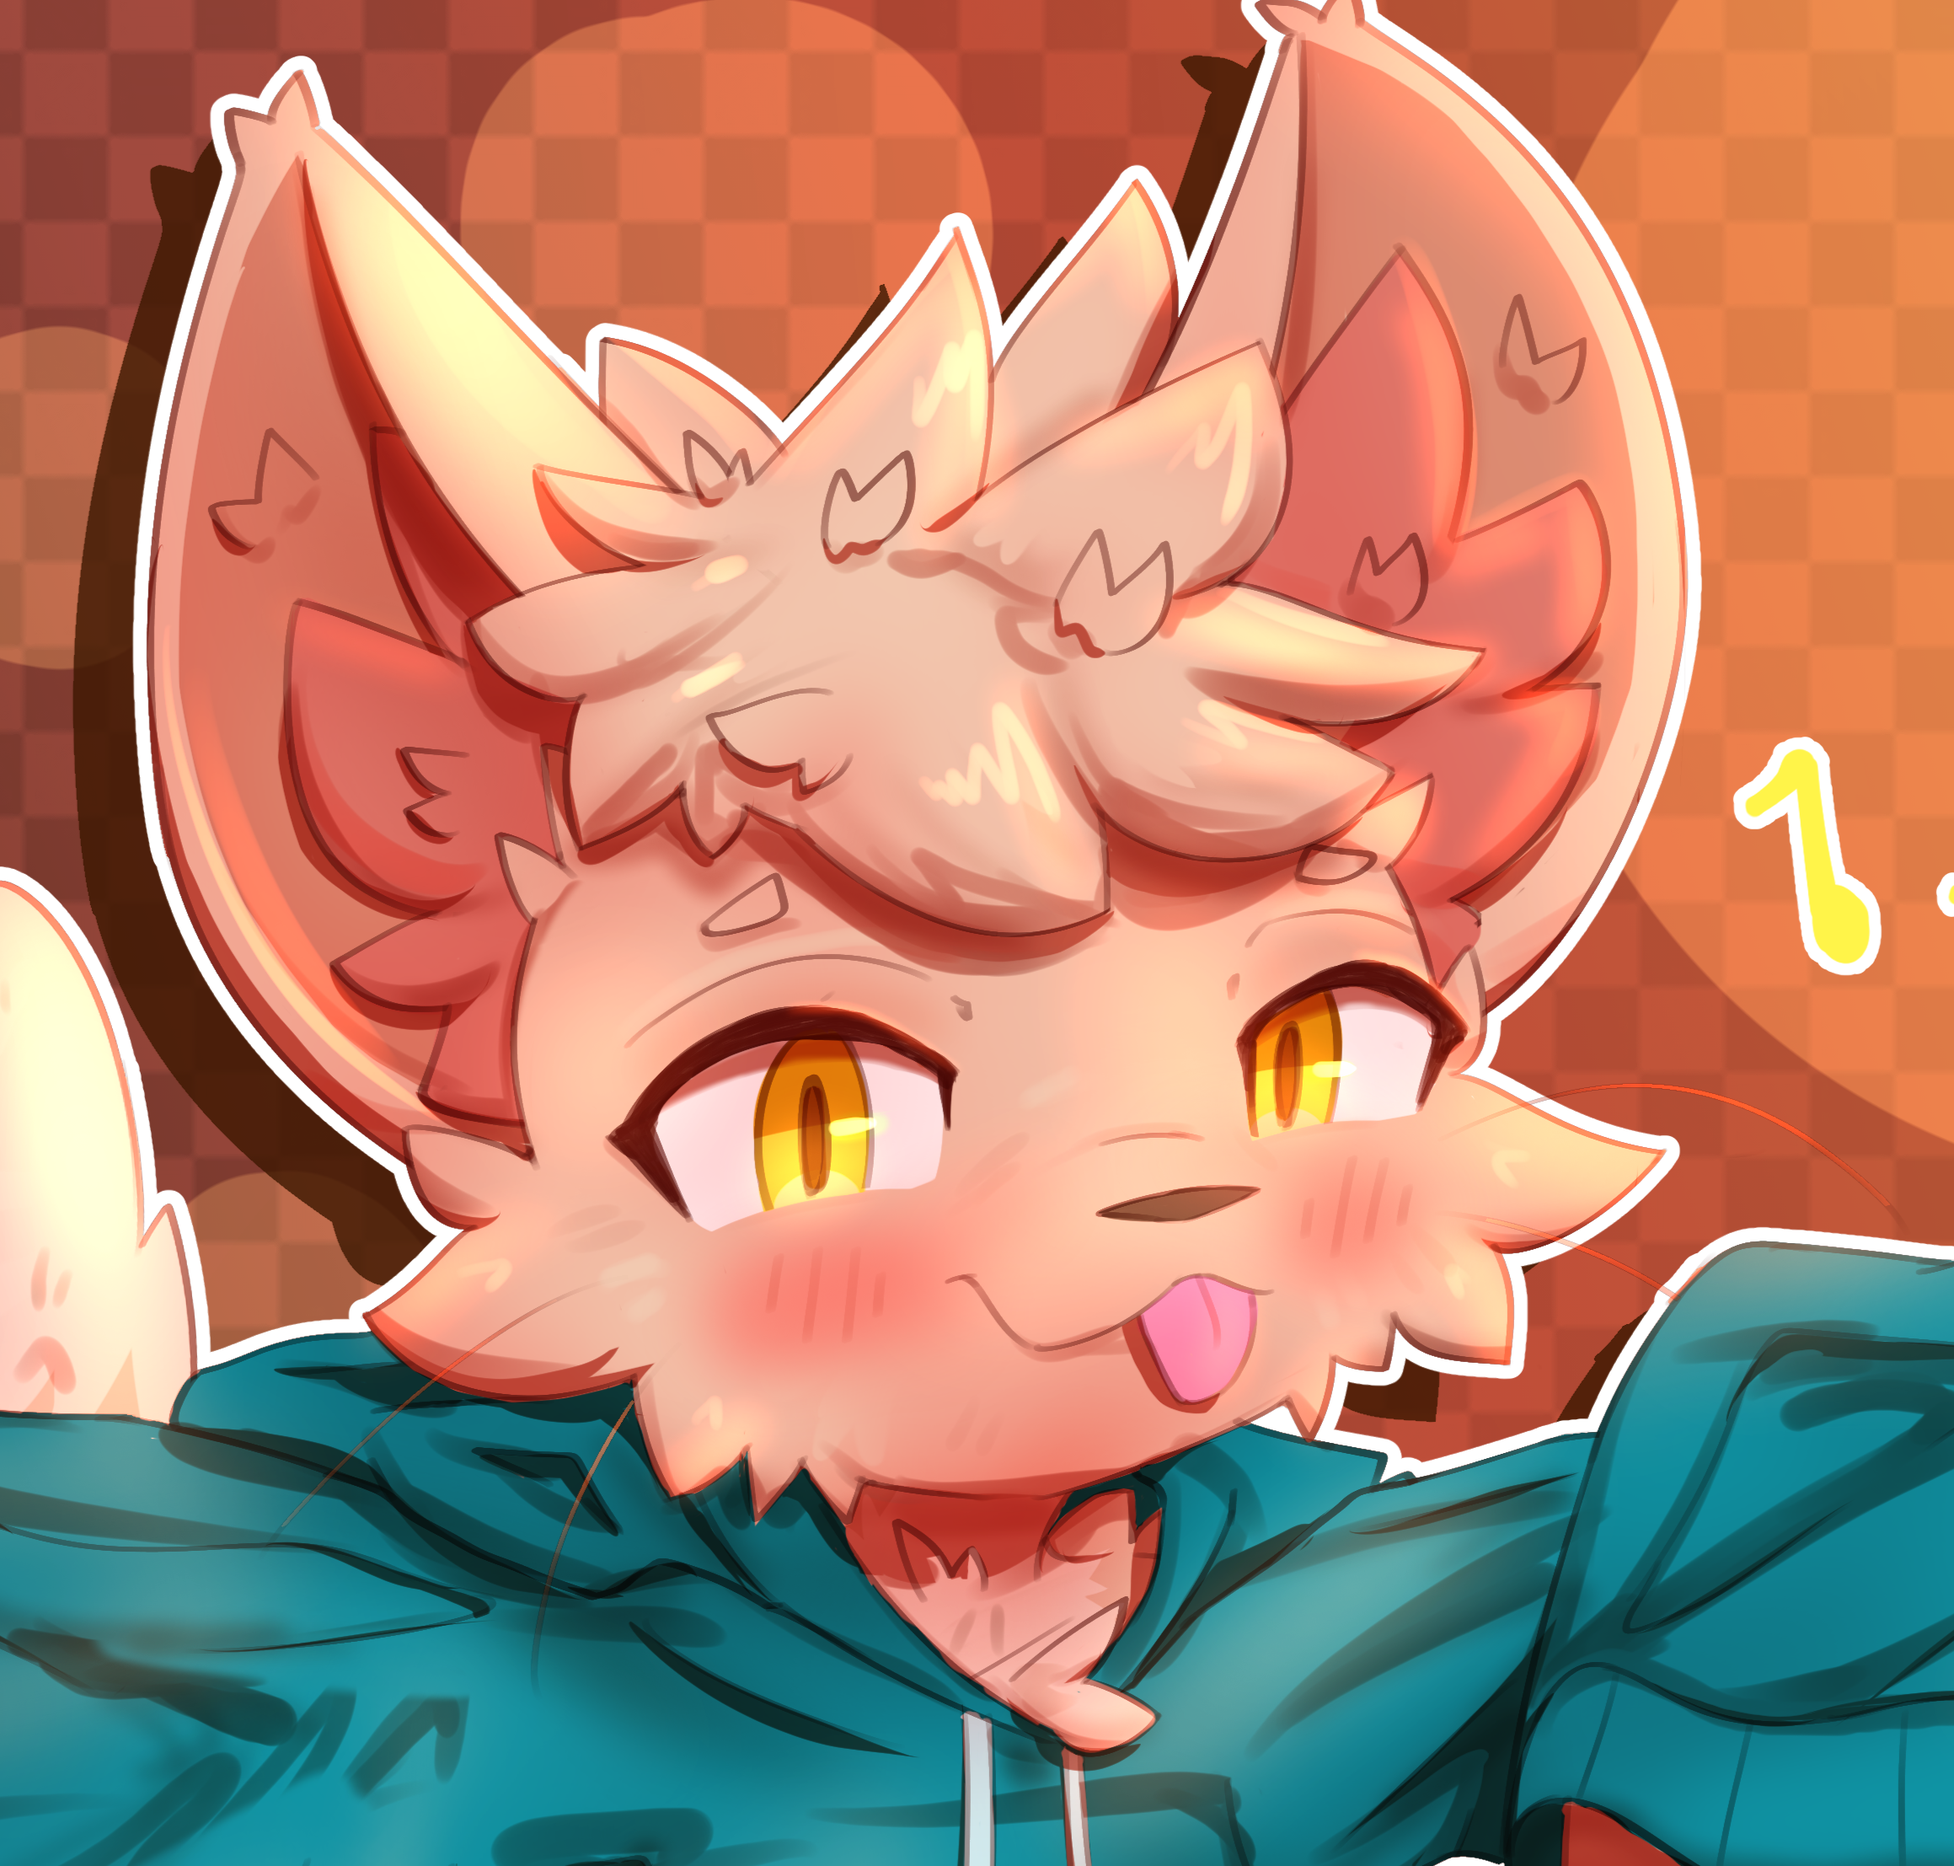
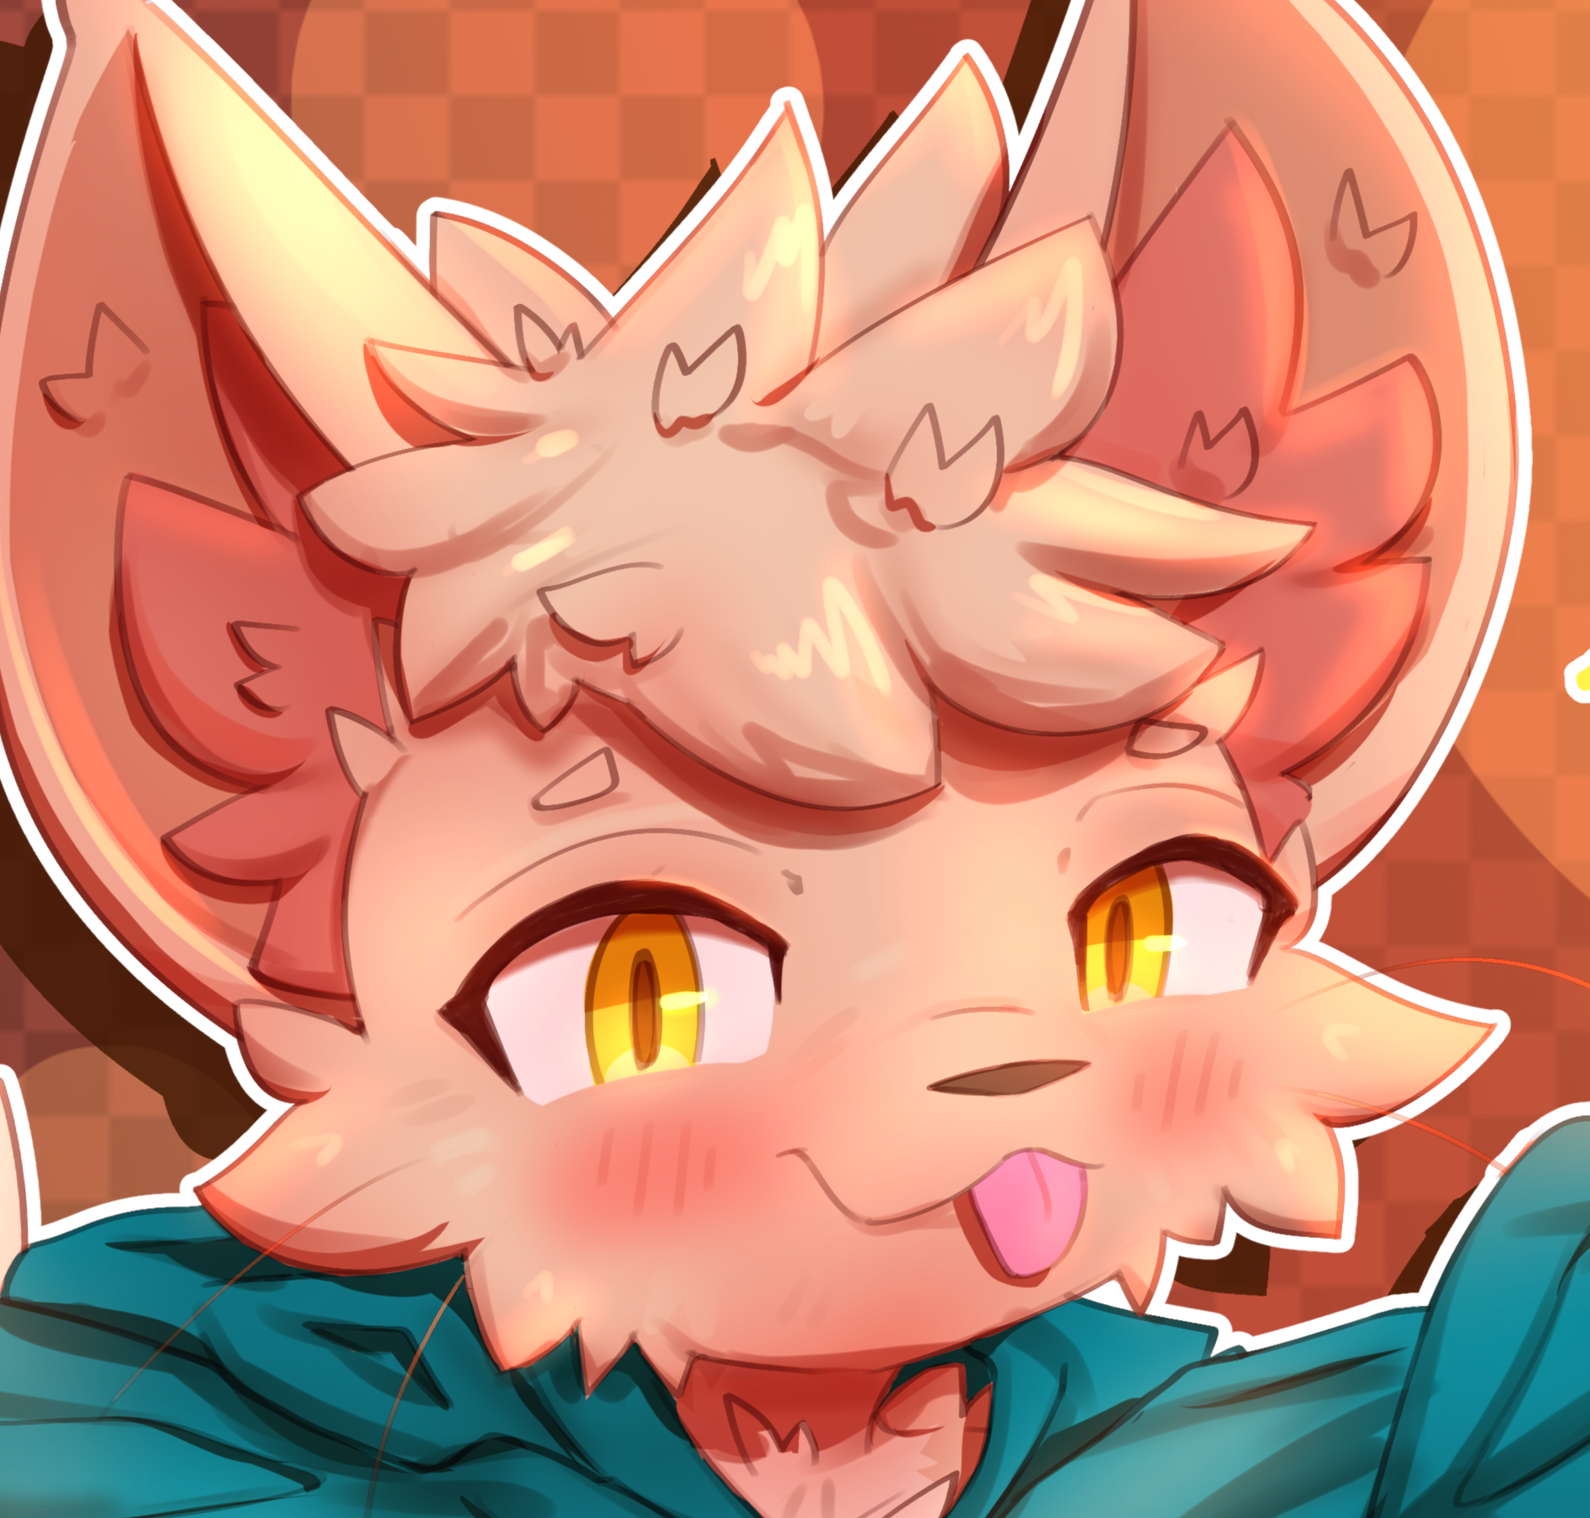
Closed Comms
Updated some art in comissions tab

diff --git a/comissions.html b/comissions.html
@@ -44,7 +44,7 @@
     <section class="intro">
       <h3>Commission Pricing and Terms of Service</h3>
       <!-- Set Comission STATUS-->
-      <div class="comm-status open">COMMISSIONS OPEN</div>
+      <div class="comm-status closed">COMMISSIONS CLOSED</div>
     </section>
 
     <!-- Overview / How to order -->
@@ -115,7 +115,7 @@
         <div class="luna-gallery">
           <img class="luna-img" src="assets/art/Sylvius pfp remake.png" alt="Sylvius pfp remake" />
           <img class="luna-img" src="assets/art/serp icon.png" alt="serp icon" />
-          <img class="luna-img" src="assets/art/devious icon.png" alt="devious icon" />
+          <img class="luna-img" src="assets/art/Nacc Comission.png" alt="Nacc Comission" />
         </div>
         <p style="margin-top:10px">A portrait focused on your character’s face — perfect for avatars and profiles. Includes rendering.</p>
       </div>
